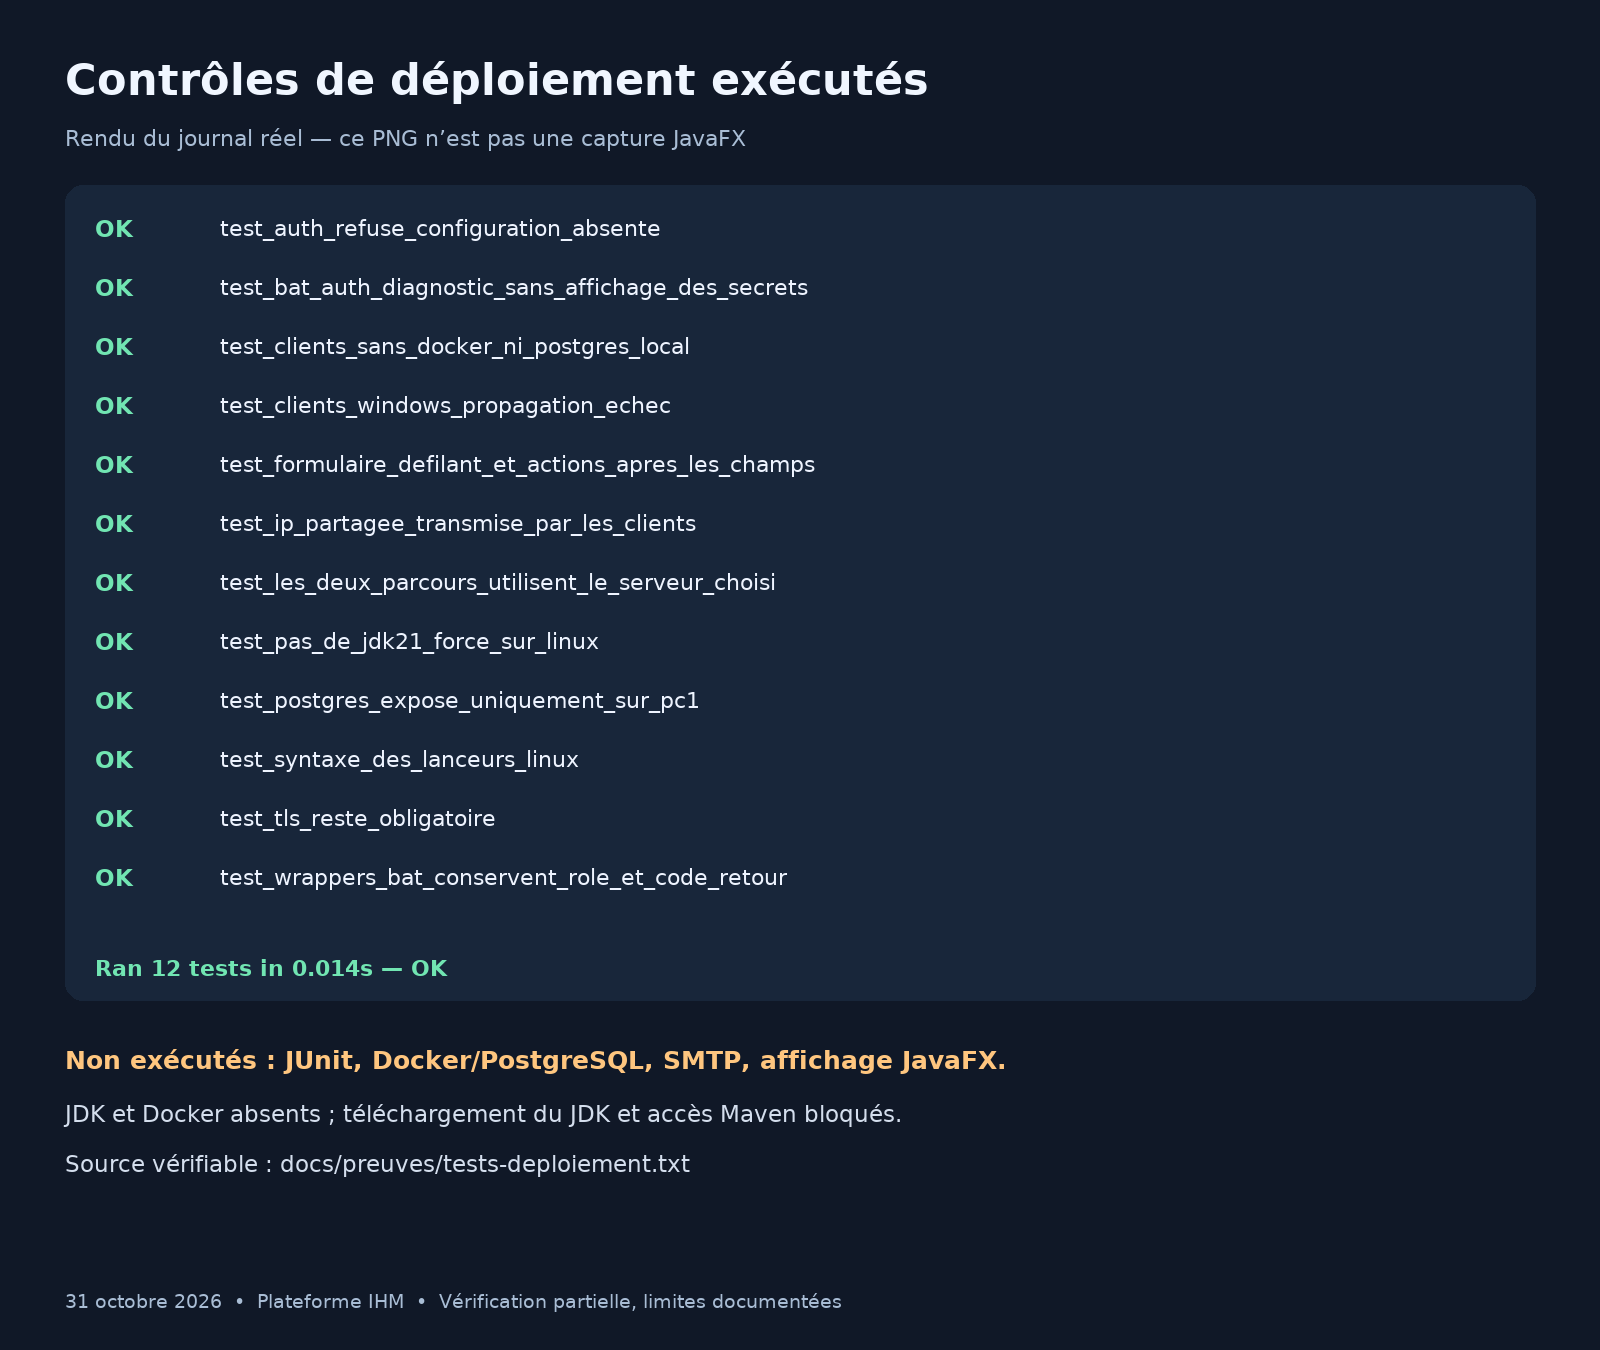
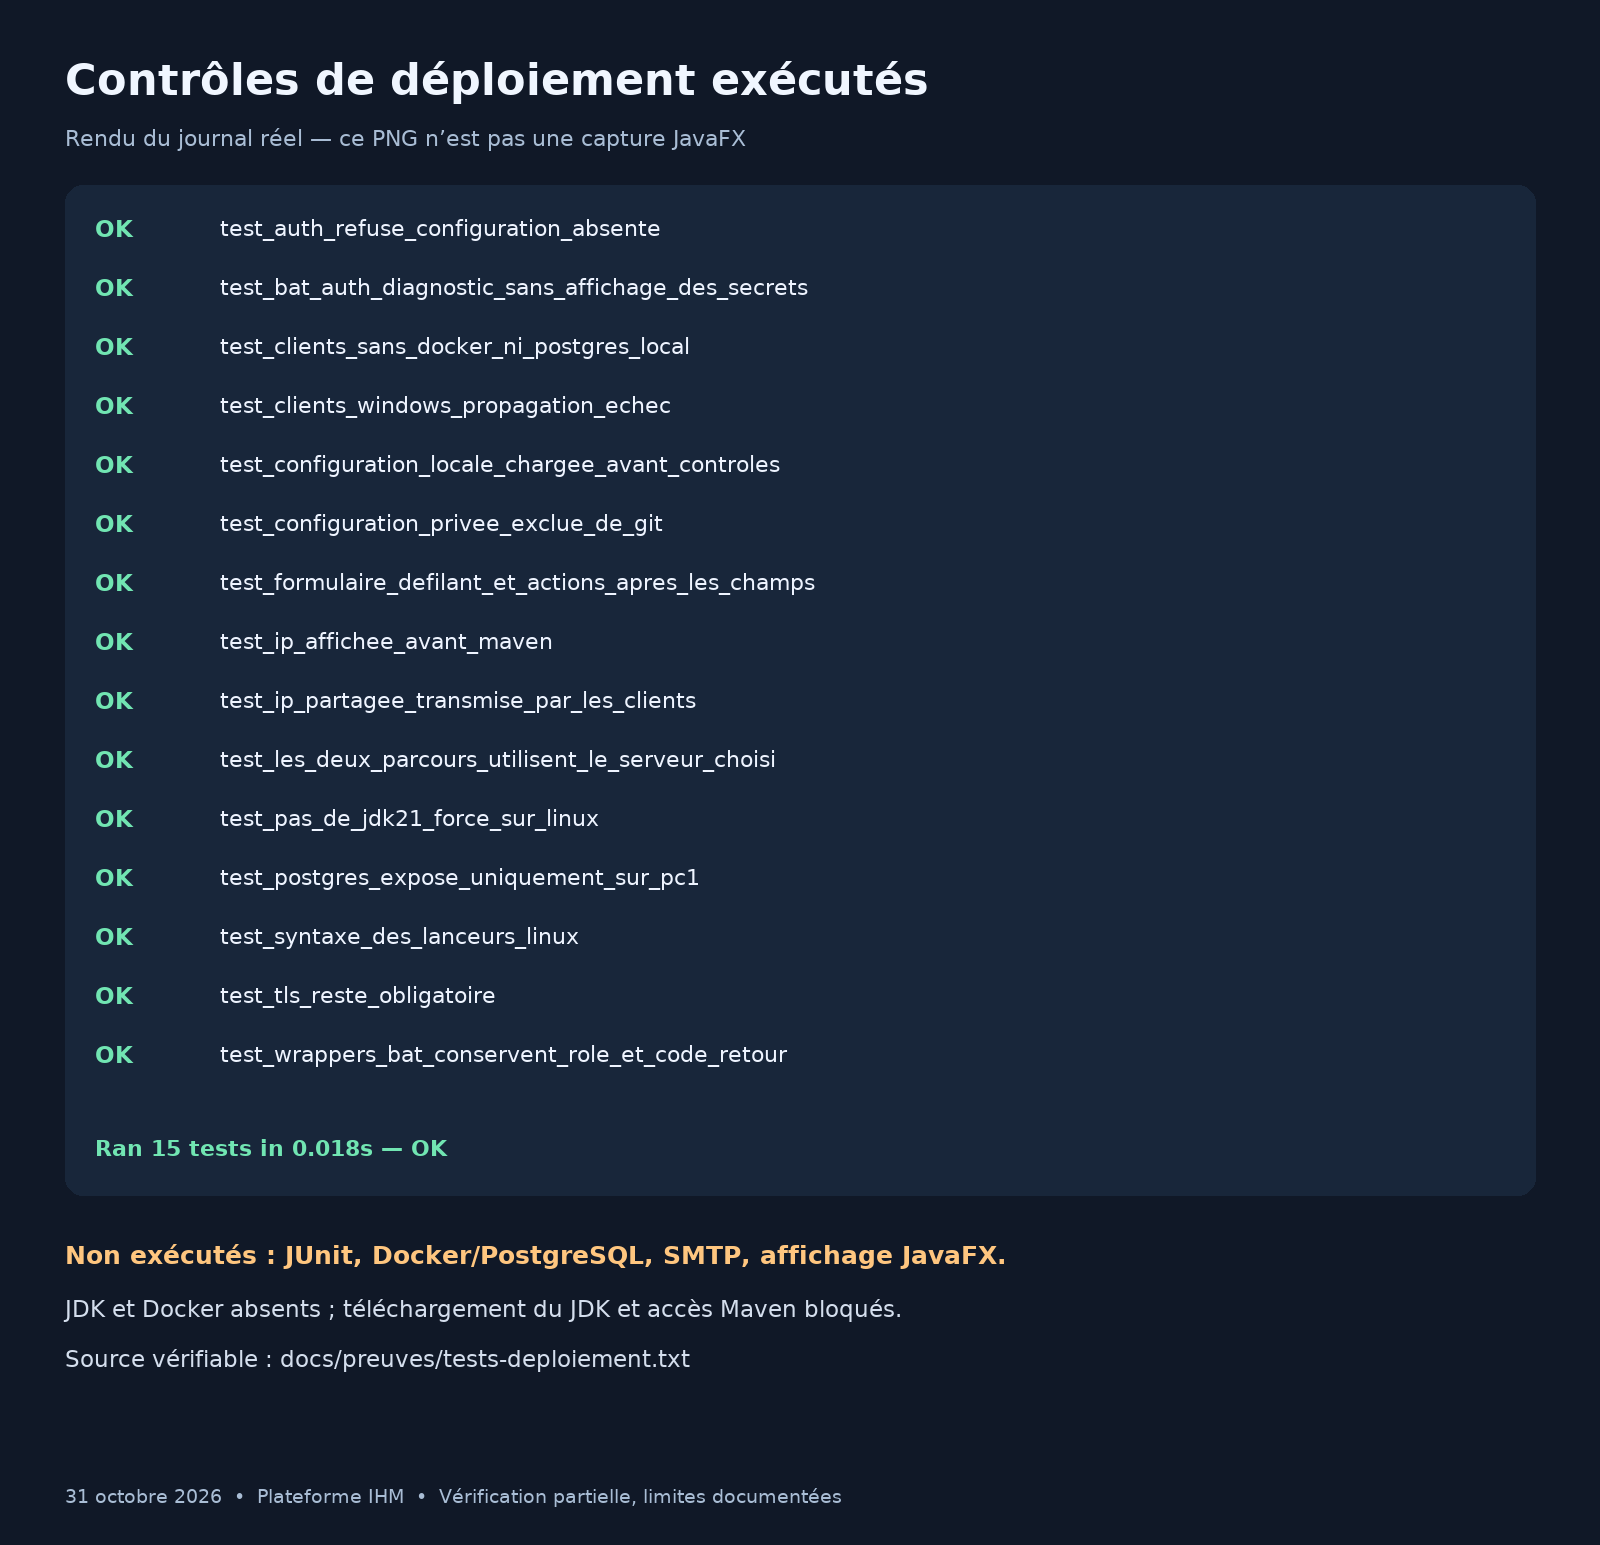
Improve PC1 authentication configuration and display LAN addresses

diff --git a/outils/preuves_deploiement.py b/outils/preuves_deploiement.py
@@ -23,19 +23,20 @@ def base(title, subtitle, height=1050):
 
 def tests():
     raw = (OUT / 'tests-deploiement.txt').read_text()
-    im, d = base('Contrôles de déploiement exécutés', 'Rendu du journal réel — ce PNG n’est pas une capture JavaFX', height=1350)
-    d.rounded_rectangle((65, 185, 1535, 1000), radius=18, fill='#18263a')
     lines = [l for l in raw.splitlines() if l.startswith('test_')]
+    bas = 310 + len(lines) * 59
+    im, d = base('Contrôles de déploiement exécutés', 'Rendu du journal réel — ce PNG n’est pas une capture JavaFX', height=bas + 350)
+    d.rounded_rectangle((65, 185, 1535, bas), radius=18, fill='#18263a')
     for i, line in enumerate(lines):
         name = line.split(' (', 1)[0]
         passed = line.endswith(' ... ok')
         d.text((95, 215 + i * 59), 'OK' if passed else 'ÉCHEC', font=font(23, True), fill='#71e5b2' if passed else '#ff8989')
         d.text((220, 215 + i * 59), name, font=font(22), fill='#eef4ff')
     summary = next((l for l in raw.splitlines() if l.startswith('Ran ')), '')
-    d.text((95, 955), summary + (' — OK' if raw.rstrip().endswith('OK') else ' — vérifier le journal'), font=font(22, True), fill='#71e5b2')
-    d.text((65, 1045), 'Non exécutés : JUnit, Docker/PostgreSQL, SMTP, affichage JavaFX.', font=font(25, True), fill='#ffc67f')
-    d.text((65, 1100), 'JDK et Docker absents ; téléchargement du JDK et accès Maven bloqués.', font=font(23), fill='#d4deed')
-    d.text((65, 1150), 'Source vérifiable : docs/preuves/tests-deploiement.txt', font=font(23), fill='#d4deed')
+    d.text((95, bas - 60), summary + (' — OK' if raw.rstrip().endswith('OK') else ' — vérifier le journal'), font=font(22, True), fill='#71e5b2')
+    d.text((65, bas + 45), 'Non exécutés : JUnit, Docker/PostgreSQL, SMTP, affichage JavaFX.', font=font(25, True), fill='#ffc67f')
+    d.text((65, bas + 100), 'JDK et Docker absents ; téléchargement du JDK et accès Maven bloqués.', font=font(23), fill='#d4deed')
+    d.text((65, bas + 150), 'Source vérifiable : docs/preuves/tests-deploiement.txt', font=font(23), fill='#d4deed')
     im.save(OUT / 'tests-deploiement.png')
 
 

diff --git a/outils/tests/test_deploiement_central.py b/outils/tests/test_deploiement_central.py
@@ -80,6 +80,32 @@ class DeploiementCentralTest(unittest.TestCase):
         self.assertNotIn('-B -q', texte)
         self.assertNotIn('echo %IHM_DB_PASSWORD%', texte)
 
+    def test_configuration_privee_exclue_de_git(self):
+        for chemin in ('postes/configuration-PC1.local.cmd', 'postes/secrets/serveur.p12'):
+            resultat = subprocess.run(['git', 'check-ignore', '--no-index', chemin],
+                                      cwd=ROOT, capture_output=True, text=True)
+            self.assertEqual(0, resultat.returncode, chemin)
+
+    def test_configuration_locale_chargee_avant_controles(self):
+        texte = (ROOT / 'postes/authentification-PC1.bat').read_text()
+        self.assertLess(texte.index('call "%~dp0configuration-PC1.local.cmd"'),
+                        texte.index('for %%V in (IHM_DB_URL'))
+        self.assertIn('configuration-PC1.exemple.cmd', texte)
+        modele = (ROOT / 'postes/configuration-PC1.exemple.cmd').read_text()
+        # Pas de secret actif livre dans le modele.
+        actives = [l for l in modele.splitlines() if l.lower().startswith('set ')]
+        self.assertFalse(any('PASSWORD=' in l for l in actives))
+        self.assertFalse(any('IHM_TLS_KEYSTORE=' in l for l in actives))
+
+    def test_ip_affichee_avant_maven(self):
+        texte = (ROOT / 'postes/1-serveur-PC1.cmd').read_text()
+        self.assertLess(texte.index('call "%~dp0afficher-ip-PC1.cmd"'),
+                        texte.index('call "%~dp0environnement.cmd"'))
+        aide = (ROOT / 'postes/afficher-ip-PC1.cmd').read_text()
+        self.assertIn('afficher-ip-PC1.ps1', aide)
+        self.assertIn('ipconfig', aide)
+        self.assertIn('sans protocole ni port', aide)
+
     def test_tls_reste_obligatoire(self):
         serveur = (ROOT / 'src/main/java/fr/ihm2026/api/service/AuthentificationApiHttps.java').read_text()
         client = (ROOT / 'src/main/java/fr/ihm2026/api/service/ClientAuthentificationHttps.java').read_text()

diff --git a/docs/preuves/README.md b/docs/preuves/README.md
@@ -2,7 +2,7 @@
 
 ## Résultats réellement obtenus
 
-`python3 outils/tests/test_deploiement_central.py` : **12 contrôles réussis**.
+`python3 outils/tests/test_deploiement_central.py` : **15 contrôles réussis**.
 Le journal brut est `tests-deploiement.txt` et son rendu PNG est `tests-deploiement.png`.
 Ces contrôles portent sur la syntaxe Bash, les contrats de configuration dans les fichiers,
 et le refus réel du lanceur HTTPS Linux lorsque sa configuration est absente.
@@ -10,6 +10,21 @@ Ce ne sont PAS des tests de connexion Java/HTTPS ni une validation de Windows.
 
 `architecture-serveur-central.png` est un **schéma explicatif**, pas une capture de l'application.
 Les PNG sont générés par `outils/preuves_deploiement.py` (Pillow requis).
+
+## Correction de la configuration PC1 et affichage des IP
+
+Le lanceur HTTPS accepte maintenant `postes/configuration-PC1.local.cmd` (facultatif),
+charge avant ses controles. Copier `postes/configuration-PC1.exemple.cmd` vers ce nom,
+puis le renseigner localement : le fichier local et `postes/secrets/` sont exclus de Git.
+Les variables d'environnement restent utilisables sans fichier local. Le modele ne contient
+aucun mot de passe actif et ne fabrique pas de certificat ni de configuration SMTP.
+Ne pas partager le fichier local : c'est un script CMD executable de confiance.
+
+Le serveur de salle appelle `afficher-ip-PC1.cmd` avant Java/Maven. Le script PowerShell
+liste les IPv4 des interfaces actives, en priorite celles avec passerelle et sans loopback/APIPA.
+S'il y en a plusieurs (VPN, Ethernet, Wi-Fi), choisir celle du reseau des clients.
+En cas d'echec, il invite a utiliser `ipconfig`. Une IP affichee n'est pas une preuve
+que le serveur est deja en ecoute. Les scripts Windows/PowerShell restent a tester sous Windows.
 
 ## Mise à jour interface et Windows
 

diff --git a/README.md b/README.md
@@ -88,6 +88,14 @@ Pour une démonstration locale avec les données de `db\02-seed.sql`, les compte
 `amina.bouzid@univ.dz` (apprenant) ; leur mot de passe commun est `demo`. Ces identifiants sont
 réservés au jeu de données de développement : ne pas les conserver dans une base de production.
 
+Pour faciliter le double-clic sous Windows, copier
+`postes/configuration-PC1.exemple.cmd` vers `postes/configuration-PC1.local.cmd`,
+puis renseigner ce fichier **local uniquement**. Le lanceur HTTPS le charge automatiquement.
+Le fichier local et `postes/secrets/` sont exclus de Git : ne jamais y publier de secrets.
+Il faut toujours fournir un vrai magasin TLS et une configuration SMTP fonctionnelle.
+Le serveur de salle affiche maintenant les IPv4 candidates avant toute compilation ;
+choisir l'adresse de la carte du même réseau que les clients, pas une carte VPN ou Docker.
+
 Avant le lancement du service, configurer dans l'environnement Windows du compte qui l'exécute :
 `IHM_DB_URL`, `IHM_DB_USER`, `IHM_DB_PASSWORD`, `IHM_TLS_KEYSTORE`, `IHM_TLS_PASSWORD`,
 `IHM_SMTP_HOST` et `IHM_SMTP_FROM`. Pour un serveur SMTP authentifié, ajouter
